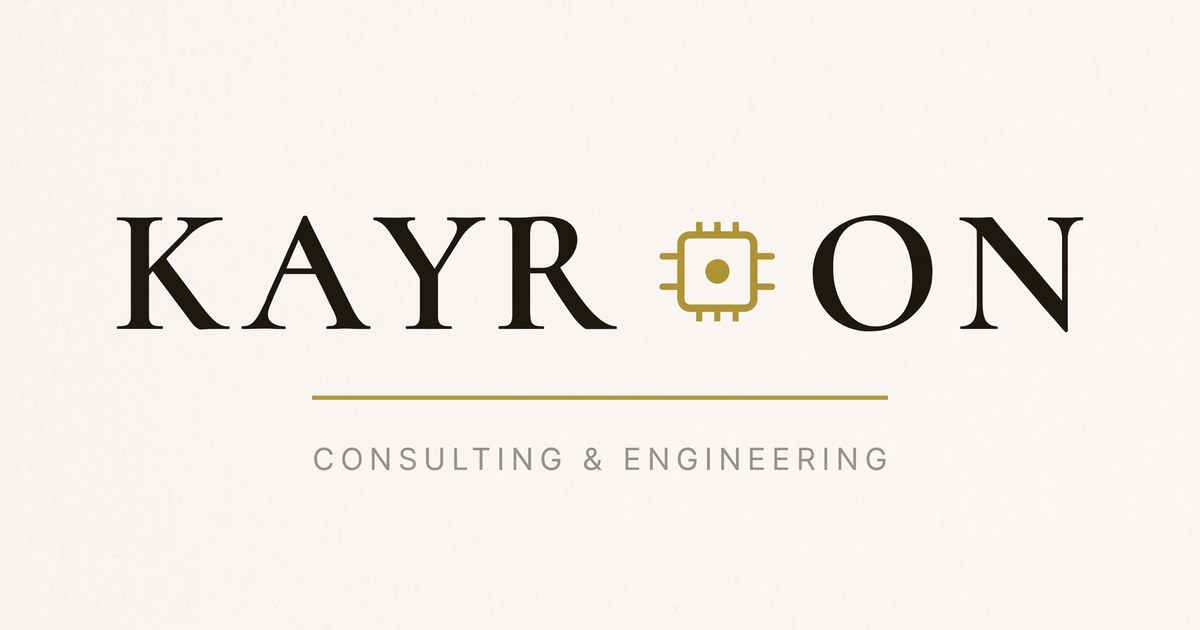
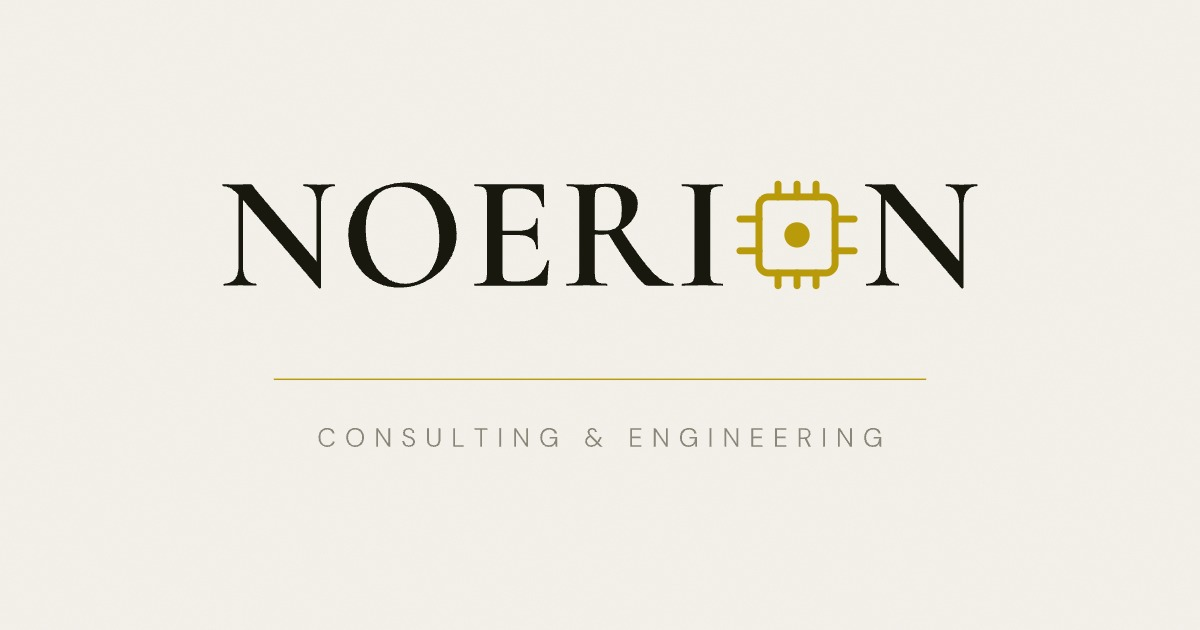
Rebrand de Kayron a Noerion
Cambia el nombre y la parte del discurso que colgaba de él. Todo lo demás
—paleta, tipografías, retícula, animaciones, estructura— queda igual.

- Wordmark: KAYR·[chip]·N pasa a NOERI·[chip]·N en nav, hero y CTA final.
- La etimología ahora es noerós (lo que comprende) + -ion (la partícula que
  actúa), en lugar de kairós + -on.
- El titular del hero pasa de «Activamos tu momento» a «Comprensión en acción».
- La cita del fundador y el CTA de cierre siguen la misma idea.
- SEO, Open Graph y datos estructurados apuntan a noerionconsulting.com.
- og-image y el logo de Fotos/ regenerados con el logotipo nuevo.
- legacy.html actualizado con los mismos cambios.

diff --git a/src/App.tsx b/src/App.tsx
@@ -37,7 +37,7 @@ export default function App() {
 
 <nav id="navbar">
   <a className="nav-logo" href="#">
-    KAYR
+    NOERI
     <svg width="22" height="16" viewBox="0 0 22 16" fill="none">
       <rect x="5" y="2" width="12" height="12" rx="1.5" stroke="#B89A0A" strokeWidth="1.2" fill="none"/>
       <line x1="5" y1="5.5" x2="2" y2="5.5" stroke="#B89A0A" strokeWidth="1" strokeLinecap="round"/>
@@ -69,22 +69,22 @@ export default function App() {
 
   <div className="hero-left">
     <div className="hero-wordmark">
-      KAYR
+      NOERI
       <ChipEye className="chip-bounce" />
       N
     </div>
     <div className="hero-rule"></div>
     <div className="hero-sub">Consulting &amp; Engineering</div>
     <p className="hero-definition">
-      kayr·on &nbsp;|&nbsp; del griego. (kairós) el momento exacto &nbsp;/&nbsp; (-on) fuerza que activa
+      noerion &nbsp;|&nbsp; del griego. (noerós) lo que comprende &nbsp;/&nbsp; (-ion) partícula que actúa
     </p>
   </div>
 
   <div className="hero-right">
     <div className="hero-copy">
       <h1>
-        Activamos tu<br />
-        <em>momento.</em>
+        Comprensión<br />
+        <em>en acción.</em>
       </h1>
       <p>
         Optimizamos tus procesos con inteligencia artificial y automatización. Resultados reales, sistemas que funcionan, equipos que los adoptan.
@@ -95,7 +95,7 @@ export default function App() {
         <IconBrandWhatsapp size={20} stroke={1.5} />
         <span>Hablemos 30 minutos</span>
       </a>
-      <a href="mailto:jisignacio10@gmail.com?subject=Consulta%20desde%20kayronconsulting.com" className="cta-secundario">
+      <a href="mailto:jisignacio10@gmail.com?subject=Consulta%20desde%20noerionconsulting.com" className="cta-secundario">
         <IconMail size={16} stroke={1.5} />
         <span>jisignacio10@gmail.com</span>
       </a>
@@ -166,15 +166,15 @@ export default function App() {
         <div className="header-label">El Origen</div>
         <h2 className="header-title reveal-text" style={{ fontSize: '3rem', lineHeight: '1.1', marginBottom: '1rem' }}>
           <span>¿QUÉ SIGNIFICA<br />
-          <em>KAYR·ON?</em></span>
+          <em>NOERION?</em></span>
         </h2>
       </div>
       <div>
         <p className="header-pull">
-          Kairós era la comprensión griega del tiempo que importa. No el que se mide en relojes, sino el instante preciso en que actuar marca la diferencia entre avanzar o quedarse.
+          Nous era la palabra griega para la mente que comprende. No la que acumula datos, sino la que ve la estructura de un problema y sabe dónde hay que actuar. De ahí noerós: lo que comprende.
         </p>
         <p className="header-body">
-          Le sumamos <strong>-on</strong>, el sufijo de las partículas que mueven el universo. El electrón. El fotón. No solo el momento. La fuerza que lo activa.
+          Le sumamos <strong>-ion</strong>, el sufijo de las partículas que mueven el universo. El electrón. El fotón. No solo entender. La comprensión puesta en acción.
         </p>
       </div>
     </div>
@@ -185,7 +185,7 @@ export default function App() {
       <div className="founder-photo-frame">
         <img
           src="founder-portrait.jpg"
-          alt="José Ignacio Silva, fundador y consultor principal de Kayron Consulting &amp; Engineering"
+          alt="José Ignacio Silva, fundador y consultor principal de Noerion Consulting &amp; Engineering"
           width="1086"
           height="1448"
           loading="lazy"
@@ -219,8 +219,8 @@ export default function App() {
         </div>
       </div>
       <div className="ft-quote">
-        <blockquote>"Tu momento de transformación ya existe dentro de tu empresa. Nosotros somos la fuerza que lo activa."</blockquote>
-        <cite>José Ignacio Silva, Fundador de Kayron</cite>
+        <blockquote>"La respuesta ya está dentro de tu empresa. Nosotros la comprendemos y la ponemos en acción."</blockquote>
+        <cite>José Ignacio Silva, Fundador de Noerion</cite>
       </div>
     </div>
   </div>
@@ -229,8 +229,8 @@ export default function App() {
 
 <section className="footer-cta fade-up-scroll" id="contacto">
   <h2 className="reveal-text">
-    <span>Tu momento<br />
-    KAYR
+    <span>La respuesta ya está.<br />
+    NOERI
     <svg width="1.05em" height="0.75em" viewBox="0 0 22 16" fill="none" style={{ display: 'inline-block', margin: '0 0.05em', transform: 'translateY(-0.15em)' }}>
       <rect x="5" y="2" width="12" height="12" rx="1.5" stroke="#B89A0A" strokeWidth="1.2" fill="none"/>
       <line x1="5" y1="5.5" x2="2" y2="5.5" stroke="#B89A0A" strokeWidth="1" strokeLinecap="round"/>
@@ -246,7 +246,7 @@ export default function App() {
       <circle cx="11" cy="8" r="2" fill="#B89A0A"/>
     </svg>
     N<br />
-    es <em>ahora.</em></span>
+    la pone en <em>acción.</em></span>
   </h2>
   <p style={{ marginBottom: '32px' }}>Sin compromiso. Con claridad sobre qué está frenando tu empresa y cómo resolverlo.</p>
   <div className="cta-final-acciones">
@@ -254,7 +254,7 @@ export default function App() {
       <IconBrandWhatsapp size={20} stroke={1.5} />
       <span>Hablemos 30 minutos</span>
     </a>
-    <a href="mailto:jisignacio10@gmail.com?subject=Consulta%20desde%20kayronconsulting.com" className="cta-secundario">
+    <a href="mailto:jisignacio10@gmail.com?subject=Consulta%20desde%20noerionconsulting.com" className="cta-secundario">
       <IconMail size={16} stroke={1.5} />
       <span>jisignacio10@gmail.com</span>
     </a>
@@ -264,16 +264,16 @@ export default function App() {
 <footer>
   <div style={{ display: 'flex', flexDirection: 'column', alignItems: 'center', gap: '24px', width: '100%' }}>
     <a
-      href="https://www.instagram.com/kayron.consulting/"
+      href="https://www.instagram.com/noerion.consulting/"
       target="_blank"
       rel="noreferrer"
       className="footer-social"
-      aria-label="Instagram de Kayron: @kayron.consulting"
-      title="@kayron.consulting"
+      aria-label="Instagram de Noerion: @noerion.consulting"
+      title="@noerion.consulting"
     >
       <IconBrandInstagram size={24} stroke={1.5} />
     </a>
-    <p>© 2026 Kayron Consulting &amp; Engineering</p>
+    <p>© 2026 Noerion Consulting &amp; Engineering</p>
     <p>Ecuador</p>
   </div>
 </footer>

diff --git a/index.html b/index.html
@@ -5,33 +5,33 @@
 <meta name="viewport" content="width=device-width, initial-scale=1.0">
 
 <!-- ═══════════ SEO PRINCIPAL ═══════════ -->
-<title>Kayron Consulting &amp; Engineering | IA y Automatización Ecuador</title>
+<title>Noerion Consulting &amp; Engineering | IA y Automatización Ecuador</title>
 <meta name="description" content="Consultoría en inteligencia artificial, automatización de procesos y estrategia empresarial en Ecuador. Diagnóstico gratuito de 30 minutos, sin compromiso.">
-<link rel="canonical" href="https://www.kayronconsulting.com/">
+<link rel="canonical" href="https://www.noerionconsulting.com/">
 <meta name="robots" content="index, follow, max-image-preview:large, max-snippet:-1, max-video-preview:-1">
 <meta name="author" content="José Ignacio Silva">
 <meta name="geo.region" content="EC">
 
 <!-- ═══════════ OPEN GRAPH (WhatsApp, Facebook, LinkedIn) ═══════════ -->
 <meta property="og:type" content="website">
-<meta property="og:site_name" content="Kayron Consulting &amp; Engineering">
+<meta property="og:site_name" content="Noerion Consulting &amp; Engineering">
 <meta property="og:locale" content="es_EC">
-<meta property="og:url" content="https://www.kayronconsulting.com/">
-<meta property="og:title" content="Kayron Consulting &amp; Engineering | IA y Automatización Ecuador">
+<meta property="og:url" content="https://www.noerionconsulting.com/">
+<meta property="og:title" content="Noerion Consulting &amp; Engineering | IA y Automatización Ecuador">
 <meta property="og:description" content="Optimizamos tus procesos con inteligencia artificial y automatización. Resultados reales, sistemas que funcionan, equipos que los adoptan.">
-<meta property="og:image" content="https://www.kayronconsulting.com/og-image.jpg">
+<meta property="og:image" content="https://www.noerionconsulting.com/og-image.jpg">
 <meta property="og:image:width" content="1200">
 <meta property="og:image:height" content="630">
-<meta property="og:image:alt" content="Kayron Consulting &amp; Engineering — Activamos tu momento">
+<meta property="og:image:alt" content="Noerion Consulting &amp; Engineering — Comprensión en acción">
 
 <!-- ═══════════ TWITTER / X ═══════════ -->
 <meta name="twitter:card" content="summary_large_image">
-<meta name="twitter:title" content="Kayron Consulting &amp; Engineering | IA y Automatización Ecuador">
+<meta name="twitter:title" content="Noerion Consulting &amp; Engineering | IA y Automatización Ecuador">
 <meta name="twitter:description" content="Optimizamos tus procesos con inteligencia artificial y automatización. Resultados reales, sistemas que funcionan, equipos que los adoptan.">
-<meta name="twitter:image" content="https://www.kayronconsulting.com/og-image.jpg">
+<meta name="twitter:image" content="https://www.noerionconsulting.com/og-image.jpg">
 
 <!-- ═══════════ ICONOS ═══════════ -->
-<meta name="apple-mobile-web-app-title" content="Kayron">
+<meta name="apple-mobile-web-app-title" content="Noerion">
 <meta name="theme-color" content="#F4F1EB">
 <link rel="icon" type="image/svg+xml" href="/favicon.svg">
 <link rel="icon" type="image/png" sizes="256x256" href="/favicon.png">
@@ -49,19 +49,19 @@
   "@graph": [
     {
       "@type": "ProfessionalService",
-      "@id": "https://www.kayronconsulting.com/#organization",
-      "name": "Kayron Consulting & Engineering",
-      "alternateName": "Kayron",
-      "url": "https://www.kayronconsulting.com/",
+      "@id": "https://www.noerionconsulting.com/#organization",
+      "name": "Noerion Consulting & Engineering",
+      "alternateName": "Noerion",
+      "url": "https://www.noerionconsulting.com/",
       "logo": {
         "@type": "ImageObject",
-        "url": "https://www.kayronconsulting.com/favicon.png",
+        "url": "https://www.noerionconsulting.com/favicon.png",
         "width": 256,
         "height": 256
       },
-      "image": "https://www.kayronconsulting.com/og-image.jpg",
+      "image": "https://www.noerionconsulting.com/og-image.jpg",
       "description": "Consultoría en inteligencia artificial, automatización de procesos, estrategia empresarial y gestión del talento para empresas en Ecuador.",
-      "slogan": "Activamos tu momento.",
+      "slogan": "Comprensión en acción.",
       "priceRange": "$$",
       "founder": {
         "@type": "Person",
@@ -84,7 +84,7 @@
         "availableLanguage": ["Spanish", "English"]
       },
       "sameAs": [
-        "https://www.instagram.com/kayron.consulting/"
+        "https://www.instagram.com/noerion.consulting/"
       ],
       "hasOfferCatalog": {
         "@type": "OfferCatalog",
@@ -100,11 +100,11 @@
     },
     {
       "@type": "WebSite",
-      "@id": "https://www.kayronconsulting.com/#website",
-      "url": "https://www.kayronconsulting.com/",
-      "name": "Kayron Consulting & Engineering",
+      "@id": "https://www.noerionconsulting.com/#website",
+      "url": "https://www.noerionconsulting.com/",
+      "name": "Noerion Consulting & Engineering",
       "inLanguage": "es-EC",
-      "publisher": { "@id": "https://www.kayronconsulting.com/#organization" }
+      "publisher": { "@id": "https://www.noerionconsulting.com/#organization" }
     }
   ]
 }
@@ -116,7 +116,7 @@
     <script type="module" src="/src/main.tsx"></script>
 
     <noscript>
-      <h1>Kayron Consulting &amp; Engineering</h1>
+      <h1>Noerion Consulting &amp; Engineering</h1>
       <p>
         Optimizamos tus procesos con inteligencia artificial y automatización.
         Resultados reales, sistemas que funcionan, equipos que los adoptan.

diff --git a/legacy.html b/legacy.html
@@ -3,11 +3,11 @@
 <head>
 <meta charset="UTF-8">
 <meta name="viewport" content="width=device-width, initial-scale=1.0">
-<meta name="description" content="Kayron Consulting & Engineering — Automatización e Inteligencia Artificial para empresas en Ecuador.">
-<meta name="apple-mobile-web-app-title" content="Kayron">
+<meta name="description" content="Noerion Consulting & Engineering — Automatización e Inteligencia Artificial para empresas en Ecuador.">
+<meta name="apple-mobile-web-app-title" content="Noerion">
 <link rel="icon" type="image/png" href="nuevo-logo.png">
 <link rel="apple-touch-icon" href="nuevo-logo.png">
-<title>Kayron Consulting & Engineering</title>
+<title>Noerion Consulting & Engineering</title>
 <link href="https://fonts.googleapis.com/css2?family=Cormorant:ital,wght@0,300;0,400;0,500;0,600;1,300;1,400&family=Crimson+Pro:ital,wght@0,300;1,300&family=DM+Sans:wght@200;300;400&display=swap" rel="stylesheet">
 <style>
 
@@ -56,7 +56,7 @@ nav {
 }
 nav.scrolled { border-bottom-color: var(--border); }
 
-/* logo nav — KAYR chip ON */
+/* logo nav — NOERI chip N */
 .nav-logo {
   display: inline-flex;
   align-items: center;
@@ -110,7 +110,7 @@ nav.scrolled { border-bottom-color: var(--border); }
   padding: 80px 64px 80px 56px;
 }
 
-/* KAYRON wordmark grande */
+/* NOERION wordmark grande */
 .hero-wordmark {
   display: inline-flex;
   align-items: center;
@@ -1038,7 +1038,7 @@ footer p {
 ══════════════════════════ -->
 <nav id="navbar">
   <a class="nav-logo" href="#">
-    KAYR
+    NOERI
     <svg width="22" height="16" viewBox="0 0 22 16" fill="none">
       <rect x="5" y="2" width="12" height="12" rx="1.5" stroke="#B89A0A" stroke-width="1.2" fill="none"/>
       <line x1="5" y1="5.5" x2="2" y2="5.5" stroke="#B89A0A" stroke-width="1" stroke-linecap="round"/>
@@ -1072,7 +1072,7 @@ footer p {
 
   <div class="hero-left">
     <div class="hero-wordmark">
-      KAYR
+      NOERI
       <svg class="chip-bounce" width="0.9em" height="0.65em" viewBox="0 0 22 16" fill="none">
         <rect x="5" y="2" width="12" height="12" rx="1.5" stroke="#B89A0A" stroke-width="1.2" fill="none"/>
         <line x1="5" y1="5.5" x2="2" y2="5.5" stroke="#B89A0A" stroke-width="1" stroke-linecap="round"/>
@@ -1092,15 +1092,15 @@ footer p {
     <div class="hero-rule"></div>
     <div class="hero-sub">Consulting &amp; Engineering</div>
     <p class="hero-definition">
-      kayr·on &nbsp;|&nbsp; del griego. (kairós) el momento exacto &nbsp;/&nbsp; (-on) fuerza que activa
+      noerion &nbsp;|&nbsp; del griego. (noerós) lo que comprende &nbsp;/&nbsp; (-ion) partícula que actúa
     </p>
   </div>
 
   <div class="hero-right">
     <div class="hero-copy">
       <h2>
-        Activamos tu<br>
-        <em>momento.</em>
+        Comprensión<br>
+        <em>en acción.</em>
       </h2>
       <p>
         Optimizamos tus procesos con inteligencia artificial y automatización. Resultados reales, sistemas que funcionan, equipos que los adoptan.
@@ -1187,10 +1187,10 @@ footer p {
       </div>
       <div>
         <p class="header-pull">
-          Kairós era la comprensión griega del tiempo que importa. No el que se mide en relojes, sino el instante preciso en que actuar marca la diferencia entre avanzar o quedarse.
+          Nous era la palabra griega para la mente que comprende. No la que acumula datos, sino la que ve la estructura de un problema y sabe dónde hay que actuar. De ahí noerós: lo que comprende.
         </p>
         <p class="header-body">
-          Le sumamos <strong>-on</strong>, el sufijo de las partículas que mueven el universo. El electrón. El fotón. No solo el momento. La fuerza que lo activa.
+          Le sumamos <strong>-ion</strong>, el sufijo de las partículas que mueven el universo. El electrón. El fotón. No solo entender. La comprensión puesta en acción.
         </p>
       </div>
     </div>
@@ -1228,8 +1228,8 @@ footer p {
         </div>
       </div>
       <div class="ft-quote">
-        <blockquote>"Tu momento de transformación ya existe dentro de tu empresa. Nosotros somos la fuerza que lo activa."</blockquote>
-        <cite>José Ignacio Silva, Fundador de Kayron</cite>
+        <blockquote>"La respuesta ya está dentro de tu empresa. Nosotros la comprendemos y la ponemos en acción."</blockquote>
+        <cite>José Ignacio Silva, Fundador de Noerion</cite>
       </div>
     </div>
   </div>
@@ -1313,13 +1313,13 @@ footer p {
      CTA FINAL
 ══════════════════════════ -->
 <section class="footer-cta fade-up-scroll" id="contacto">
-  <h2 class="reveal-text"><span>Tu momento<br>es <em>ahora.</em></span></h2>
+  <h2 class="reveal-text"><span>La respuesta ya está.<br>La ponemos en <em>acción.</em></span></h2>
   <p>30 minutos. Sin compromiso. Con claridad sobre qué está frenando tu empresa y cómo resolverlo.</p>
-  <a class="btn-primary" href="mailto:hola@kayron.consulting">Agenda una llamada →</a>
+  <a class="btn-primary" href="mailto:hola@noerion.consulting">Agenda una llamada →</a>
 </section>
 
 <footer>
-  <p>© 2025 Kayron Consulting &amp; Engineering</p>
+  <p>© 2025 Noerion Consulting &amp; Engineering</p>
   <p>Ecuador</p>
 </footer>
 

diff --git a/src/components/blocks/ServiceAnimations.tsx b/src/components/blocks/ServiceAnimations.tsx
@@ -3,7 +3,7 @@ import { motion } from "framer-motion";
 import type { Transition, Variants } from "framer-motion";
 
 /* ══════════════════════════════════════════════════════════════
-   PALETA KAYRON
+   PALETA NOERION
    ══════════════════════════════════════════════════════════════ */
 const GOLD = "#B89A0A";
 const SOFT = "#CFC8BA";

diff --git a/src/index.css b/src/index.css
@@ -134,7 +134,7 @@ nav.scrolled { border-bottom-color: var(--border); }
   padding: 80px 64px 80px 56px;
 }
 
-/* KAYRON wordmark grande */
+/* NOERION wordmark grande */
 .hero-wordmark {
   display: inline-flex;
   align-items: center;
